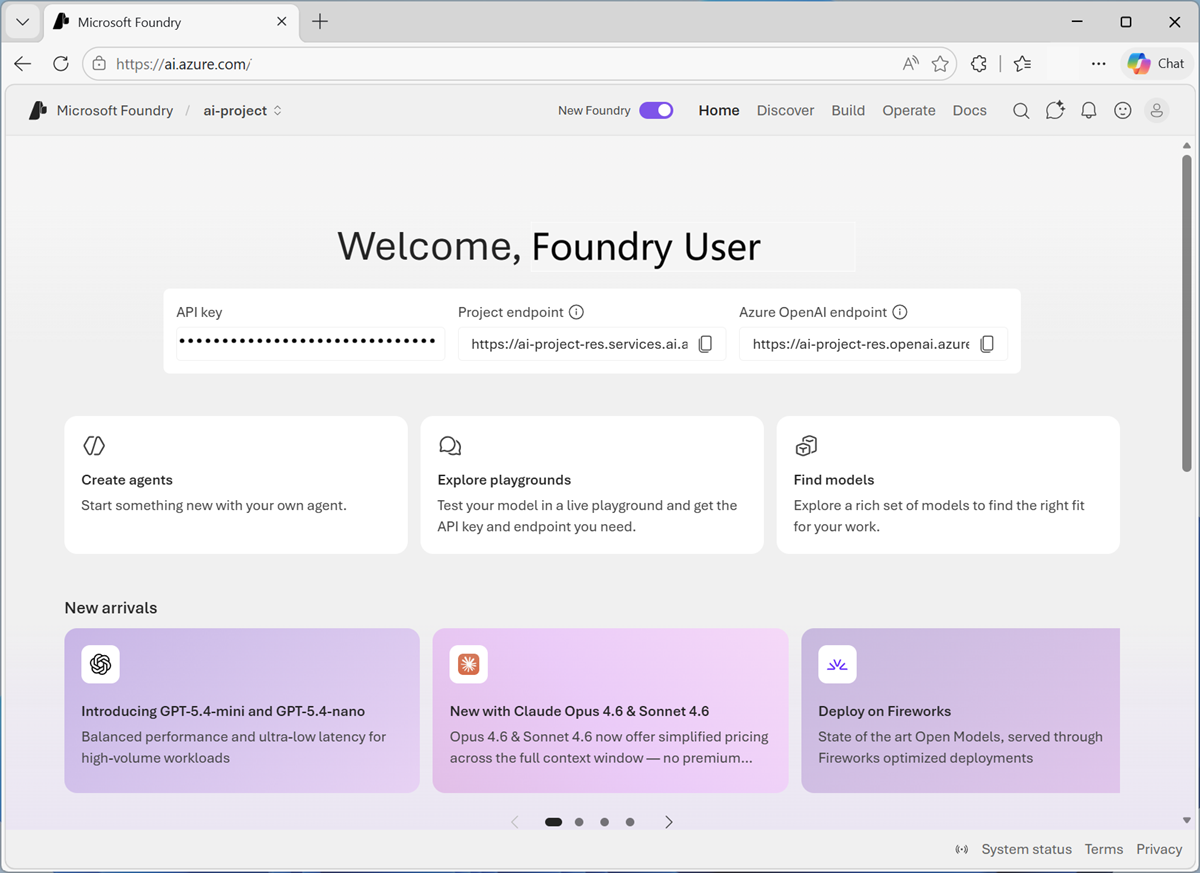
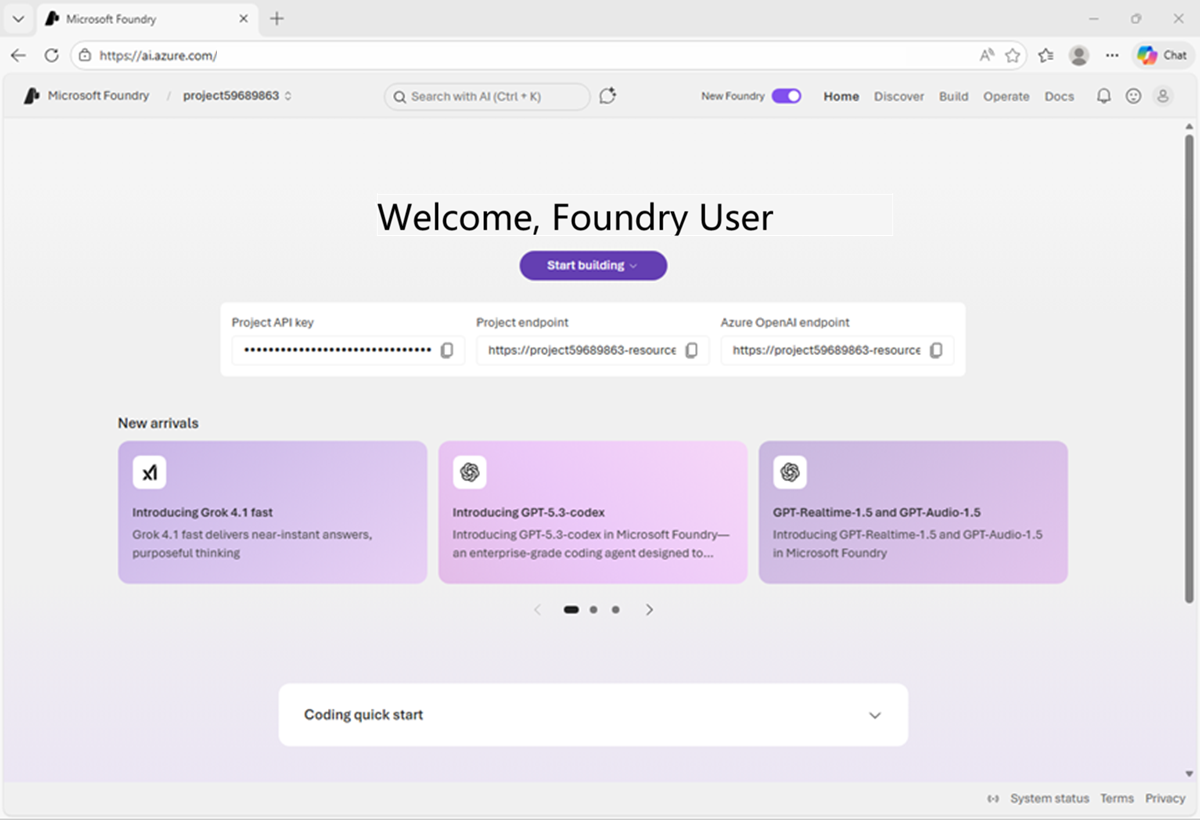
Updated portal

diff --git a/Instructions/Exercises/04b-finetune-model.md b/Instructions/Exercises/04b-finetune-model.md
@@ -41,13 +41,13 @@ Microsoft Foundry uses projects to organize models, resources, data, and other a
 
     > \* At the time of writing, these regions support fine-tuning for gpt-4.1 models. Check the [models page](https://learn.microsoft.com/azure/foundry/foundry-models/concepts/models-sold-directly-by-azure?&pivots=azure-openai#fine-tuning-models) for the latest region availability.
 
-1. Wait for your project to be created.
+1. Wait for your project to be created. Then view its home page.
 
 ## Deploy a model
 
 Now deploy a model that you'll use to get a performance baseline.
 
-1. On the home page, select **Find models** (or on the **Discover** page, select the **Models** tab) to view the Microsoft Foundry model catalog.
+1. In the **Start building** menu, select **Find models** (or on the **Discover** page, select the **Models** tab) to view the Microsoft Foundry model catalog.
 1. In the model catalog, search for `gpt-4.1`.
 1. Review the model card, and then deploy it using the default settings.
 1. When the model has been deployed, it will open in the model playground.

diff --git a/Instructions/Exercises/02-model-catalog-evaluation.md b/Instructions/Exercises/02-model-catalog-evaluation.md
@@ -33,13 +33,13 @@ Microsoft Foundry uses projects to organize models, resources, data, and other a
     - **Resource group**: *Create or select a resource group*
     - **Region**: Select any of the **AI Foundry recommended** regions
 
-1. Wait for your project to be created.
+1. Wait for your project to be created. Then view its home page.
 
 ## Explore models in the catalog
 
 Microsoft Foundry Models provides a catalog of models that you can use in your project. You can browse the catalog and compare models to find the right one for your needs.
 
-1. On the home page, select **Find models** (or on the **Discover** page, select the **Models** tab) to view the Microsoft Foundry model catalog.
+1. In the **Start building** menu, select **Find models** (or on the **Discover** page, select the **Models** tab) to view the Microsoft Foundry model catalog.
 
     The model catalog lists all models available in Foundry. Some are provided directly from Azure (and billed through your Azure subscription) while others are provided by partners and the community.
 

diff --git a/Instructions/Exercises/03-foundry-sdk.md b/Instructions/Exercises/03-foundry-sdk.md
@@ -38,13 +38,13 @@ Microsoft Foundry uses projects to organize models, resources, data, and other a
     - **Resource group**: *Create or select a resource group*
     - **Region**: Select any of the **AI Foundry recommended** regions
 
-1. Wait for your project to be created.
+1. Wait for your project to be created. Then view its home page.
 
 ## Deploy a model
 
 Now deploy a model that you'll use in your chat application.
 
-1. On the home page, select **Find models** (or on the **Discover** page, select the **Models** tab) to view the Microsoft Foundry model catalog.
+1. In the **Start building** menu, select **Find models** (or on the **Discover** page, select the **Models** tab) to view the Microsoft Foundry model catalog.
 1. In the model catalog, search for `gpt-4.1`.
 1. Review the model card, and then deploy it using the default settings.
 1. When the model has been deployed, it will open in the model playground - you can test it there if you like.

diff --git a/Instructions/Exercises/06-Explore-content-filters.md b/Instructions/Exercises/06-Explore-content-filters.md
@@ -35,13 +35,13 @@ Microsoft Foundry uses projects to organize models, resources, data, and other a
     - **Resource group**: *Create or select a resource group*
     - **Region**: Select any of the **AI Foundry recommended** regions
 
-1. Wait for your project to be created.
+1. Wait for your project to be created. Then view its home page.
 
 ## Deploy a model
 
 Now deploy a model that you'll use in your chat application.
 
-1. On the home page, select **Find models** (or on the **Discover** page, select the **Models** tab) to view the Microsoft Foundry model catalog.
+1. In the **Start building** menu, select **Find models** (or on the **Discover** page, select the **Models** tab) to view the Microsoft Foundry model catalog.
 1. In the model catalog, search for `gpt-4.1`.
 1. Review the model card, and then deploy it using the default settings.
 1. When the model has been deployed, it will open in the model playground - you can test it there if you like.

diff --git a/Instructions/Exercises/04a-use-own-data.md b/Instructions/Exercises/04a-use-own-data.md
@@ -39,13 +39,13 @@ Microsoft Foundry uses projects to organize models, resources, data, and other a
     - **Resource group**: *Create or select a resource group*
     - **Region**: Select any of the **AI Foundry recommended** regions
 
-1. Wait for your project to be created.
+1. Wait for your project to be created. Then view its home page.
 
 ## Deploy a model
 
 Now deploy a model that you'll use in your chat application.
 
-1. On the home page, select **Find models** (or on the **Discover** page, select the **Models** tab) to view the Microsoft Foundry model catalog.
+1. In the **Start building** menu, select **Find models** (or on the **Discover** page, select the **Models** tab) to view the Microsoft Foundry model catalog.
 1. In the model catalog, search for `gpt-4.1`.
 1. Review the model card, and then deploy it using the default settings.
 1. When the model has been deployed, it will open in the model playground.

diff --git a/Instructions/Exercises/01-Explore-ai-studio.md b/Instructions/Exercises/01-Explore-ai-studio.md
@@ -54,7 +54,7 @@ Microsoft Foundry uses projects to organize models, resources, data, and other a
 
 At the core of any generative AI project, there's at least one generative AI model.
 
-1. 1. On the home page, select **Find models** (or on the **Discover** page, select the **Models** tab) to view the Microsoft Foundry model catalog.
+1. In the **Start building** menu, select **Find models** (or on the **Discover** page, select the **Models** tab) to view the Microsoft Foundry model catalog.
 
 1. Search for the `gpt-4.1` model, and then select it in the search results to view its model card.
 
